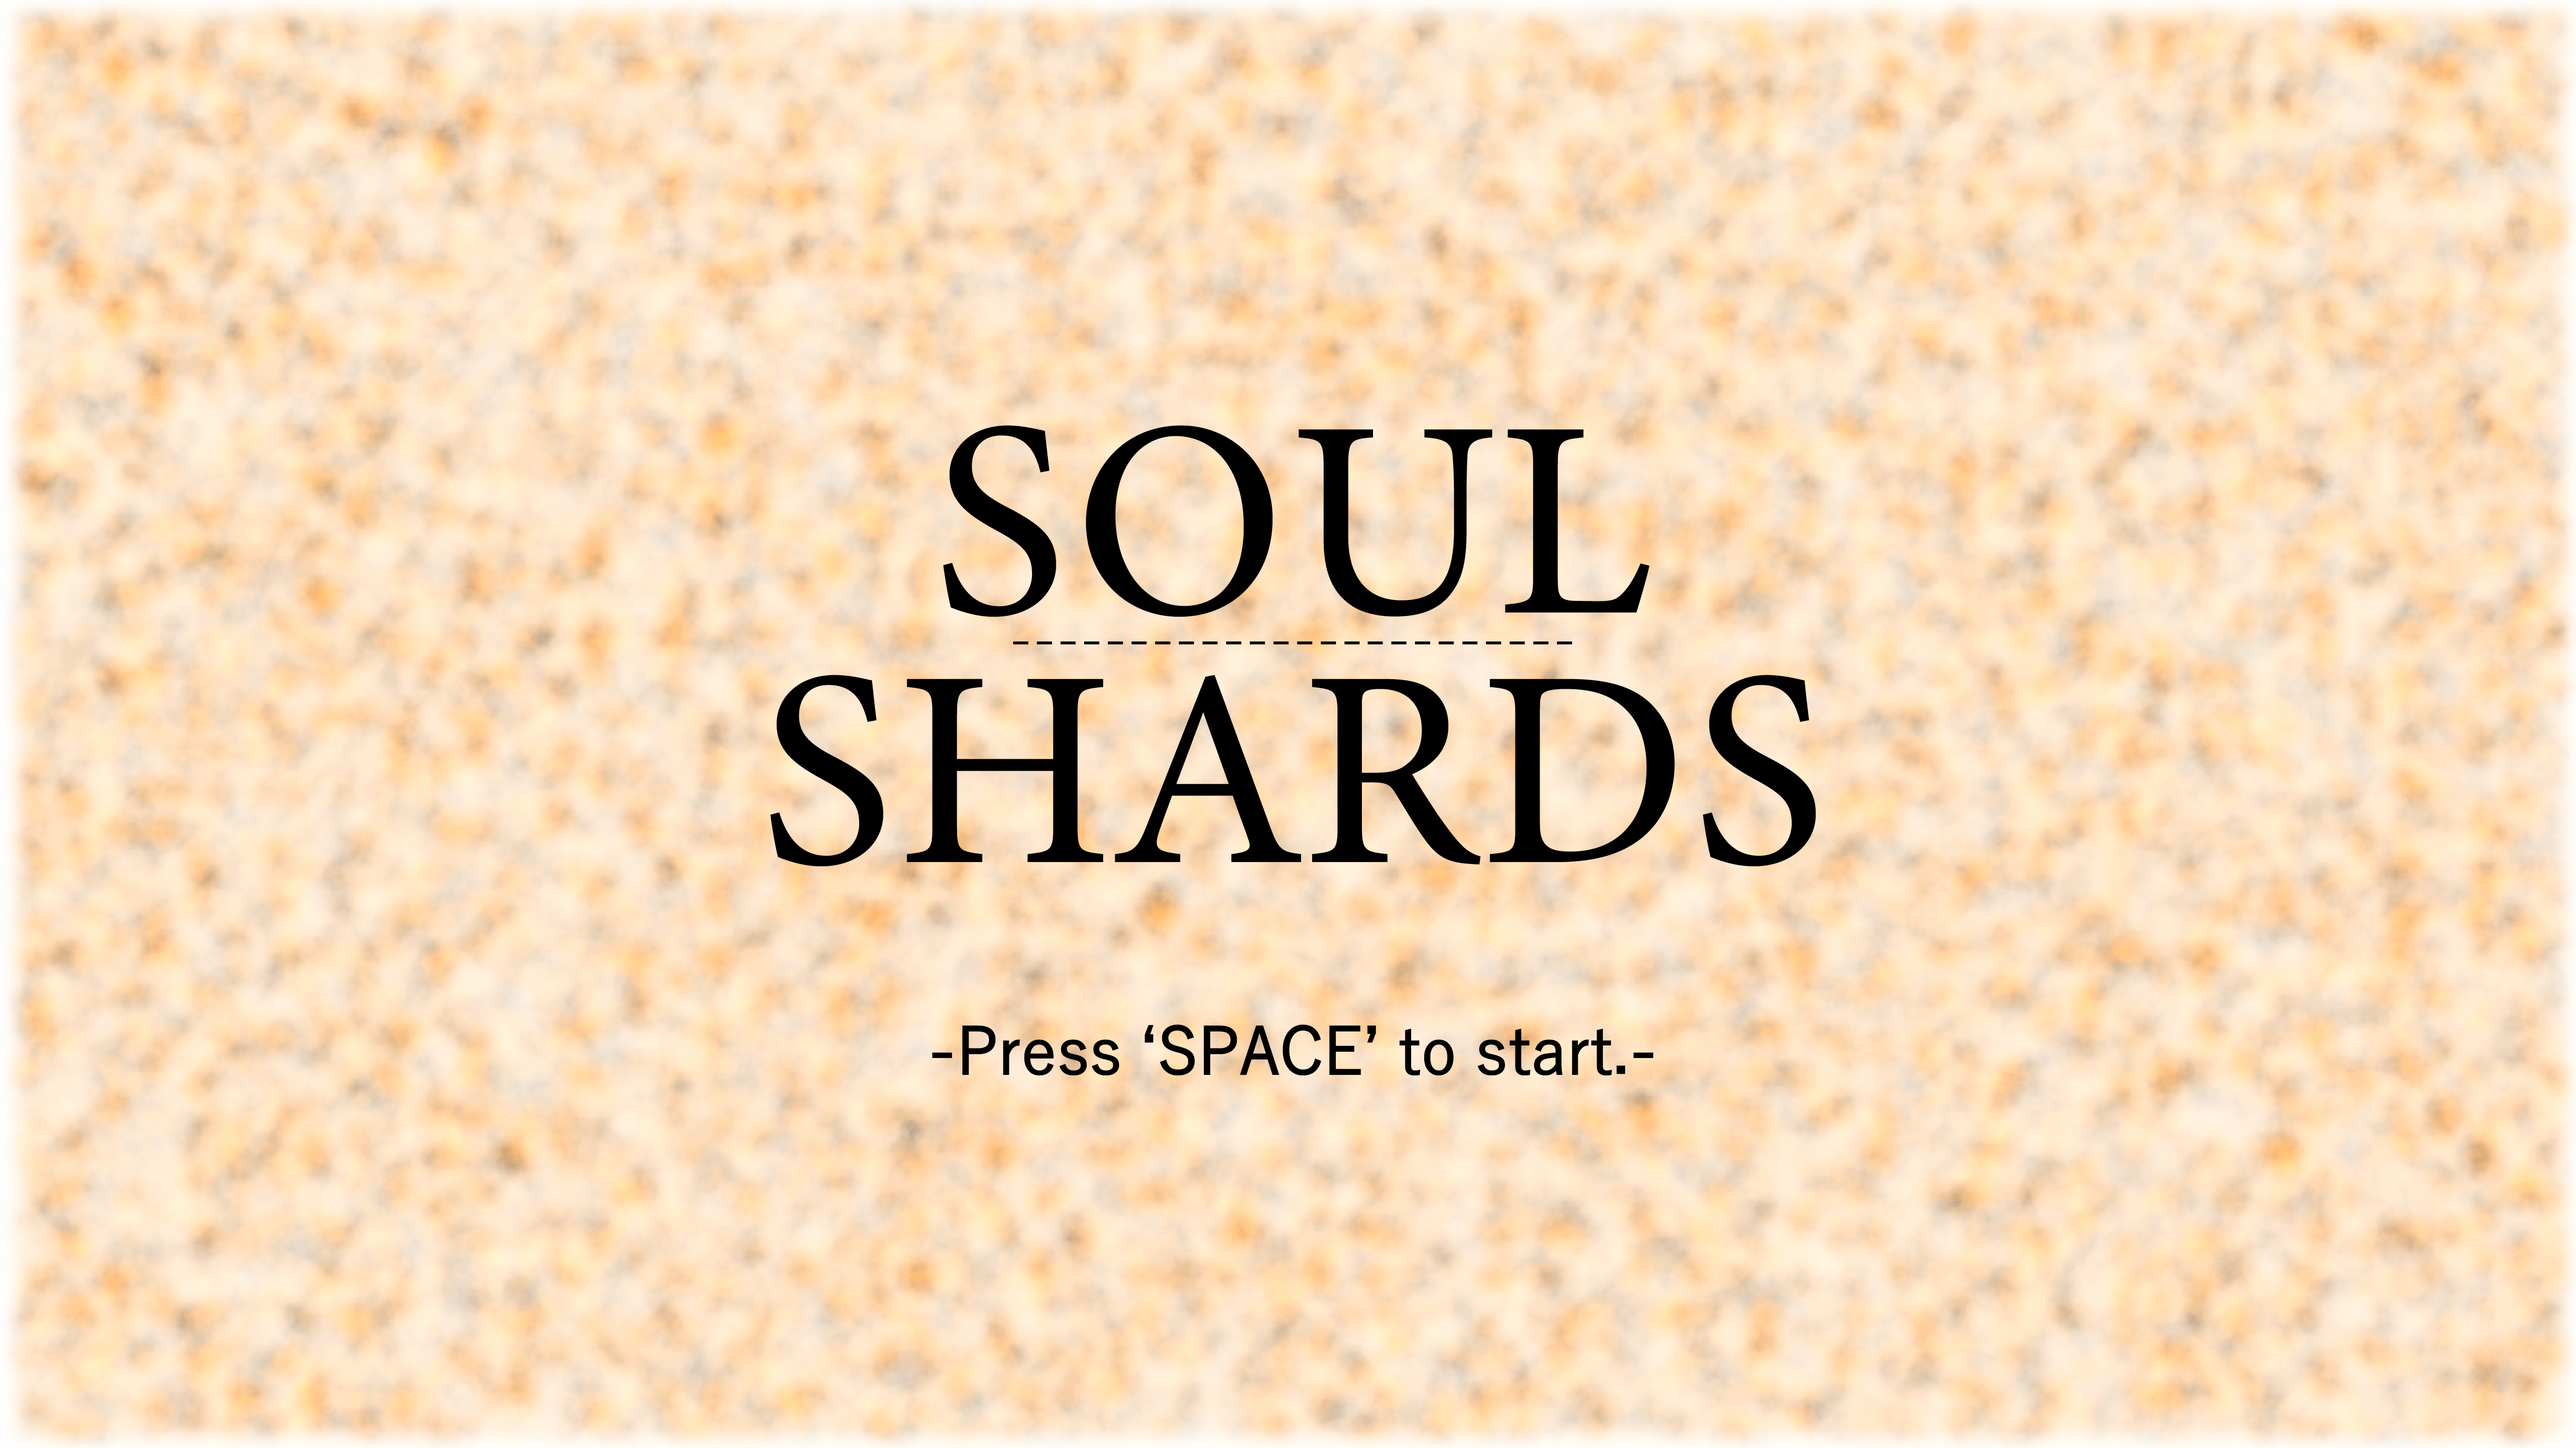
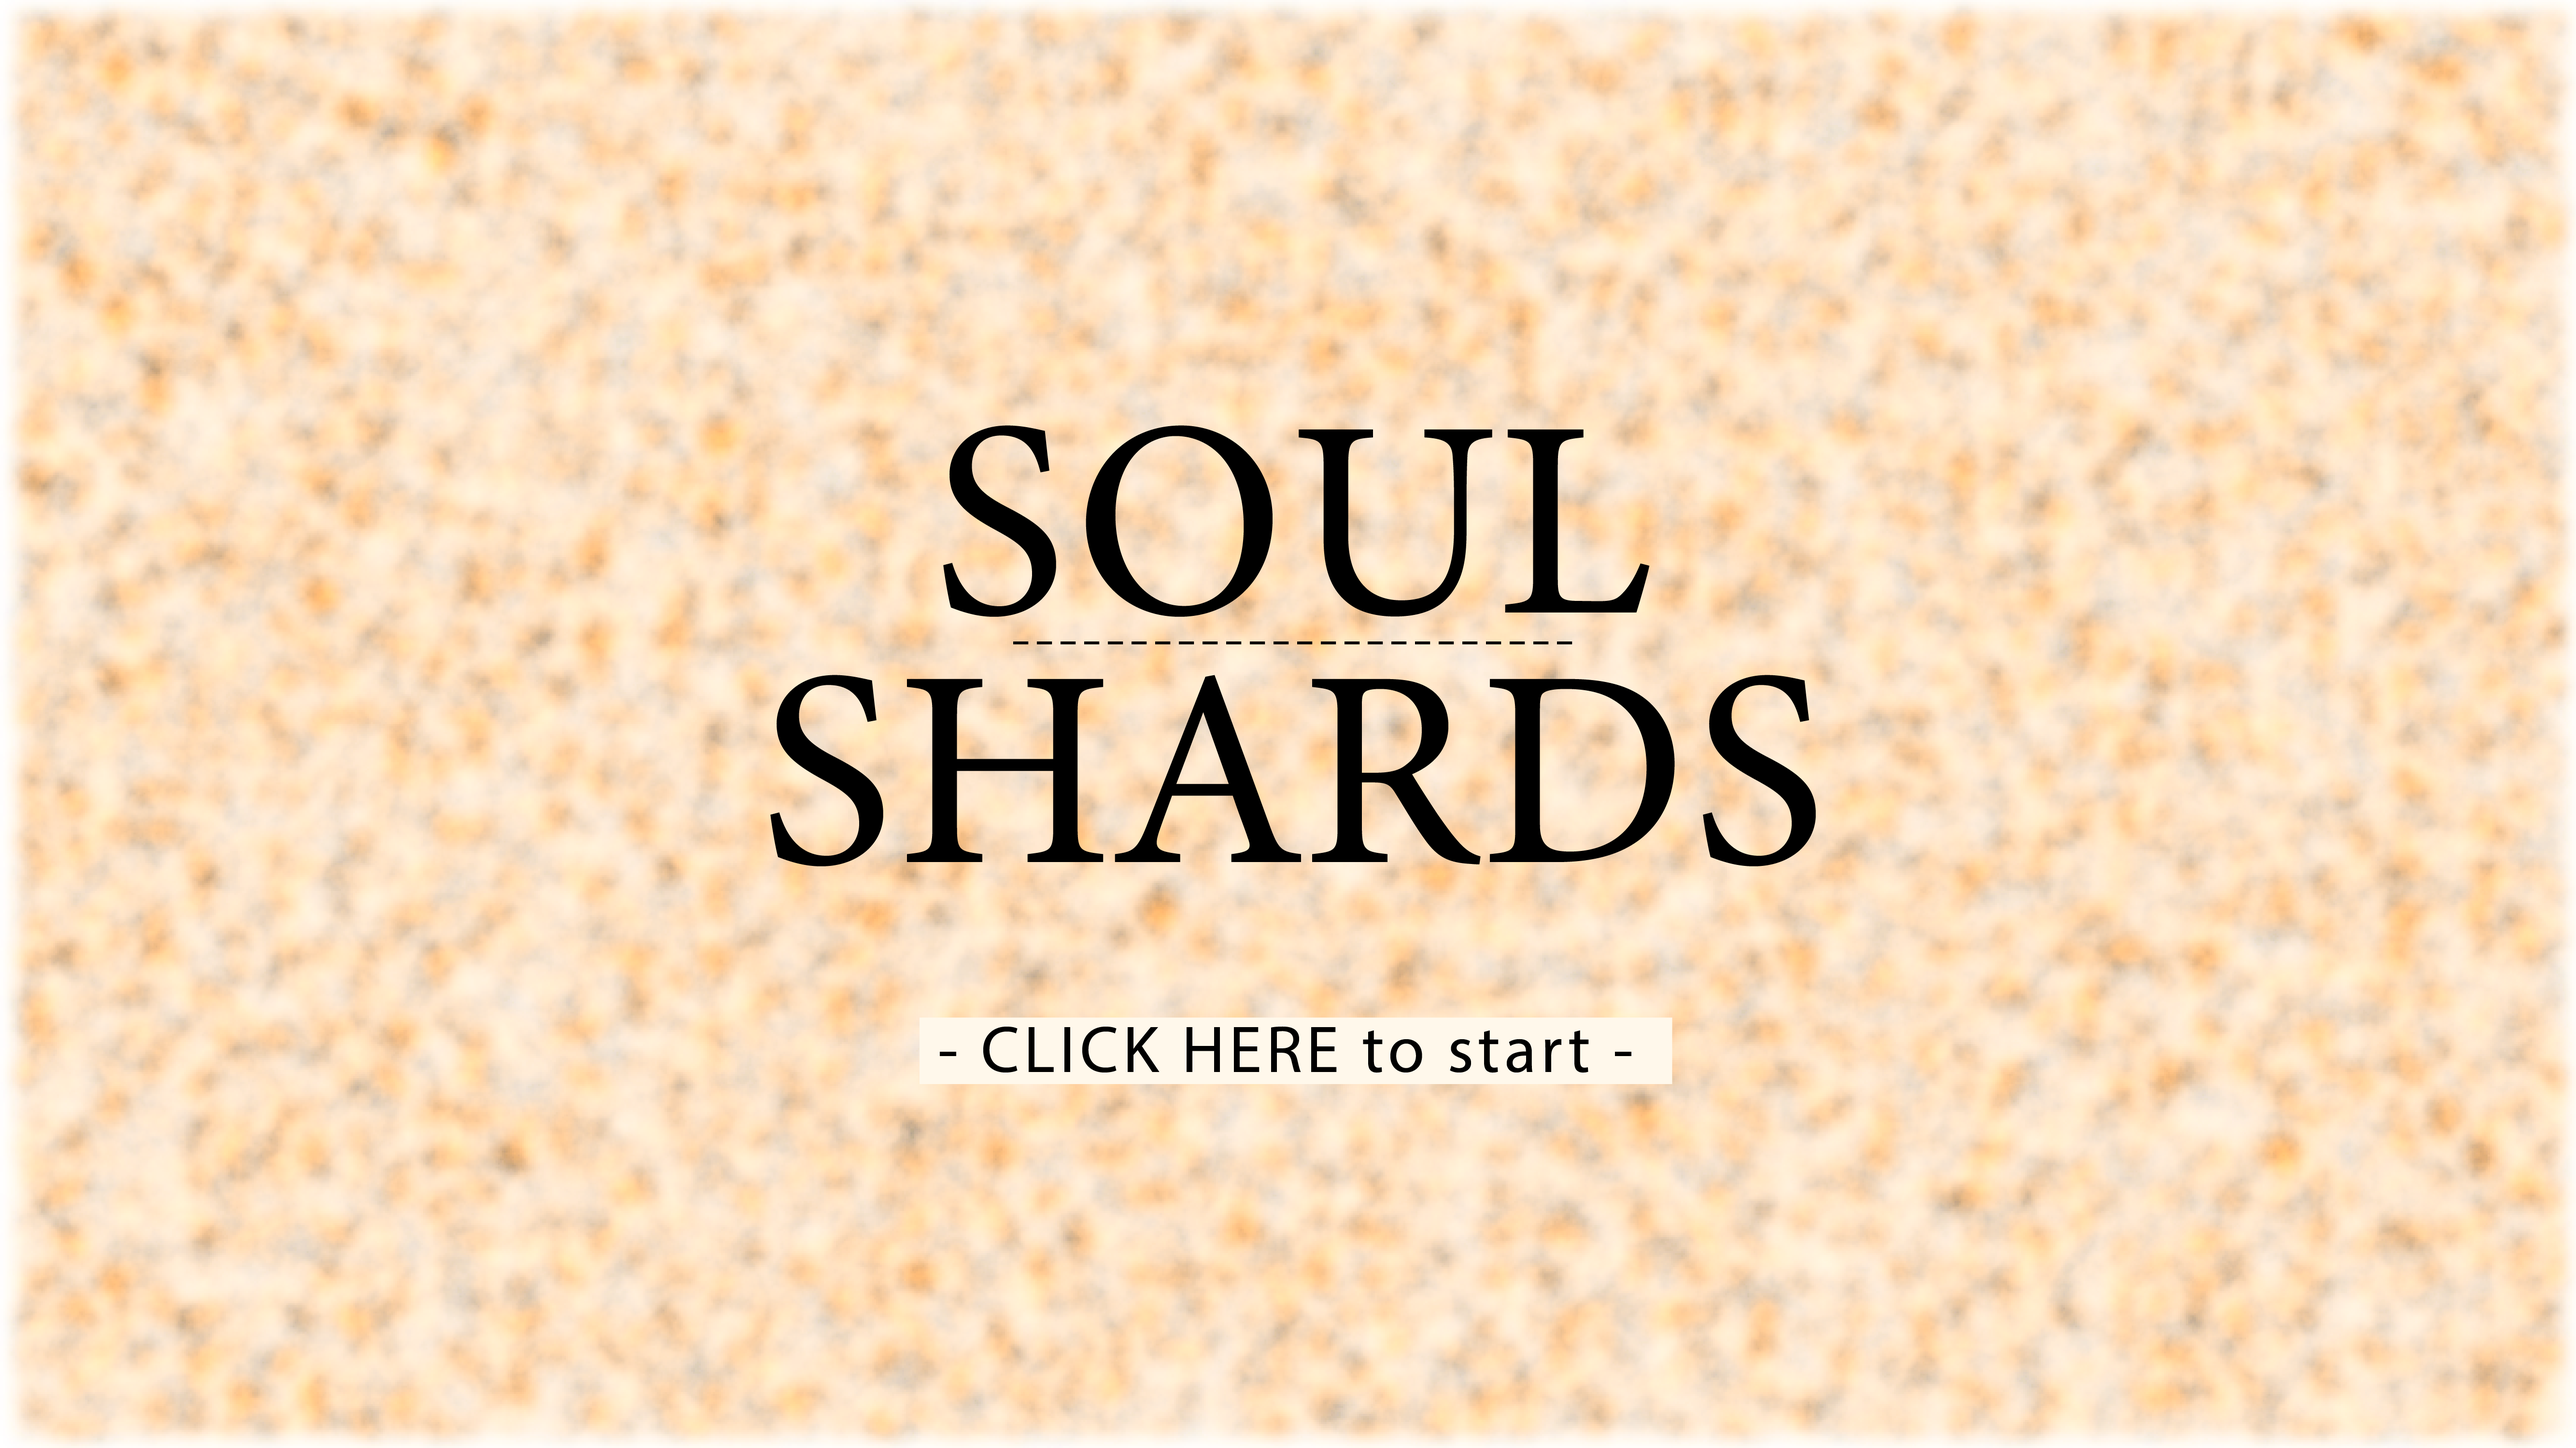
inicio

Changed region(s): [[0.3423, 0.682, 0.6535, 0.775]]

diff --git a/index.html b/index.html
@@ -24,11 +24,11 @@
         .container .btn {
             position: absolute;
             top: 70%;
-            left: 48%;
+            left: 47.5%;
             background-color:transparent;
             color: transparent;
             font-size: 16px;
-            padding: 15px 181px;
+            padding: 15.5px 187px;
             border: none;
             cursor: pointer;
             border-radius: 5px;
